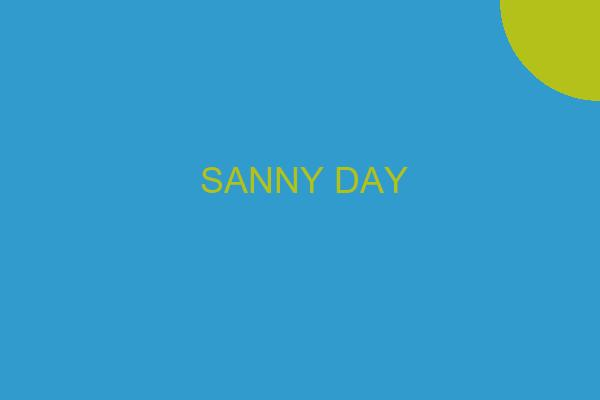
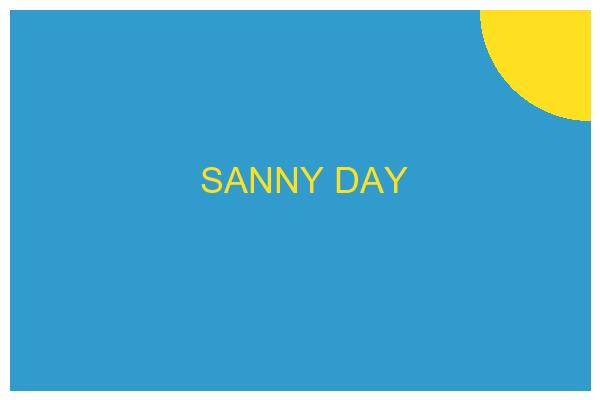
DZ_04_07_25

Changed region(s): [[0.0, 0.0, 1.0, 1.0], [0.33, 0.39, 0.69, 0.48]]

diff --git a/main.py b/main.py
@@ -771,14 +771,36 @@ from PIL import Image
 from PIL import ImageFont
 from PIL import ImageDraw
 
+#V1  прямоугольник с белой окантовкой
 
-sky1 = Image.new('RGB', (600,400),(50,155,205))  # создание голубого квадрата
-sky1.save('imges/sanday.jpg')
-words = Image.open("imges/sanday.jpg")
-draw = ImageDraw.Draw(words)
-font = ImageFont.truetype('arial.ttf', 36)
-draw.text((200, 160), 'SANNY DAY', (180,193,27), font=font)
-draw.pieslice( (500,-100, 700, 100),start=90, end=180, fill=(180,193,27))
+# sky1 = Image.new('RGB', (600,400),(50,155,205))  # создание голубого квадрата
+# sky1.save('imges/sanday.jpg')
+#
+# words = Image.open("imges/sanday.jpg")
+# draw = ImageDraw.Draw(words)
+# draw.rectangle((0,0, 600, 400),outline=(255,255,255), width=10)
+#
+# font = ImageFont.truetype('arial.ttf', 36)
+# draw.text((200, 160), 'SANNY DAY', (255,224,32), font=font)
+#
+# draw.pieslice( (480,-100, 700, 120),start=90, end=180, fill=(255,224,32))
+#
+# words.save('imges/sanday.jpg')
 
-words.save('imges/sanday.jpg')
+
+#V2 закругл.прямоугольник с белой окантовкой
+
+# sky1 = Image.new('RGB', (600,400),(0, 0, 0))  # создание черного квадрата
+# sky1.save('imges/sanday1.jpg')
+#
+# words = Image.open("imges/sanday1.jpg")
+# draw = ImageDraw.Draw(words)
+#
+# draw.rounded_rectangle((0, 0, 600, 400), radius=40, fill=(50,155,205), outline=(255,255,255), width=4)
+# font = ImageFont.truetype('arial.ttf', 36)
+# draw.text((200, 160), 'SANNY DAY', (255,224,32), font=font)
+#
+# draw.pieslice( (480,-112, 712, 120),start=90, end=180, fill=(255,224,32))
+#
+# words.save('imges/sanday1.jpg')
 
